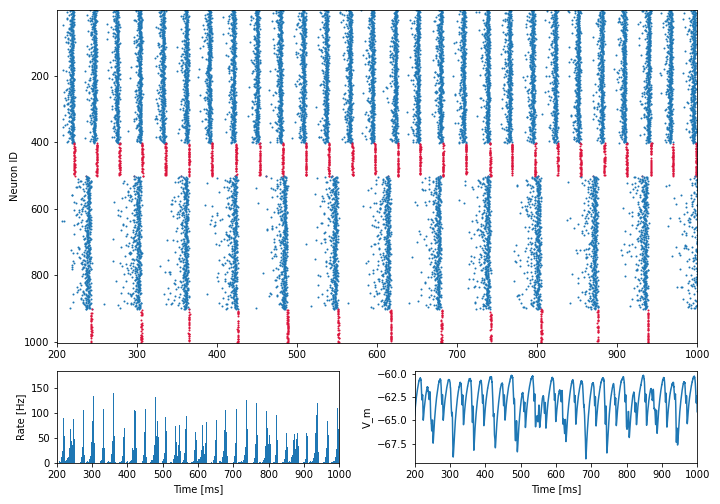
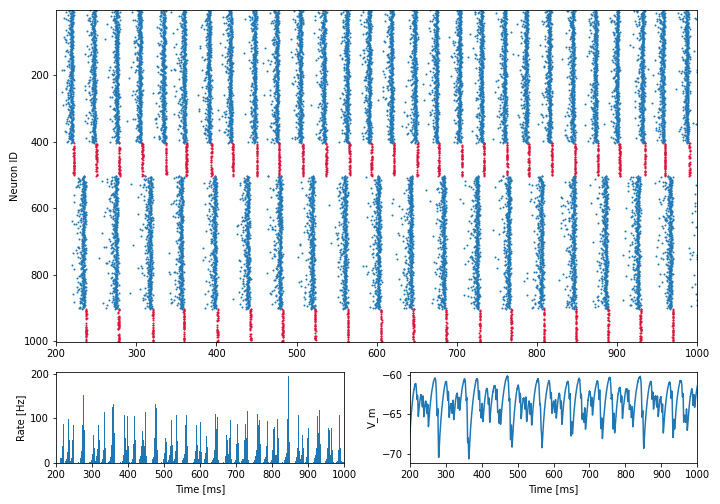
update

Changed region(s): [[0.0, 0.0, 0.9778, 0.9821], [0.9472, 0.6845, 1.0, 0.7143]]

diff --git a/simulation/setup.py b/simulation/setup.py
@@ -16,9 +16,9 @@ def setup():
     ## Recording and simulation parameters
     params = {
         'rec_start'  :    200.,                                                # start point for data recording
-        'rec_stop'   :   1000.,                                                # end points for data recording
+        'rec_stop'   :   4000.,                                                # end points for data recording
         'record_to'  : 'memory',
-        'sim_time'   :   1000.,                                                # Time the network is simulated in ms
+        'sim_time'   :   4000.,                                                # Time the network is simulated in ms
         'calc_lfp'   :   False,                                                # Flag to use LFP approximation procedure
         'verbose'    :    True,                                                # Flag for verbose function output
         'K_scale'    :      1.,                                                # Scaling factor for connections
@@ -46,7 +46,7 @@ def setup():
                             'tau_m'      :  20.0
                         },
                          {
-                            'tau_syn_ex' :   1.0,
+                            'tau_syn_ex' :   1.1,
                             'tau_syn_in' :   0.5,
                             'tau_m'      :  13.0
                         },

diff --git a/simulation/functions.py b/simulation/functions.py
@@ -721,17 +721,15 @@ def get_mean_spike_rate(times, params):
     times = times[times >= params['transient']]
     return times.size /  (params['sim_time'] - params['transient']) * 1000
 
-def compute_plv(spikes_1, spikes_2, resolution, t_sim, bin_size):
+def compute_plv(spikes_1, spikes_2, resolution, t_sim, bin_size, transient):
     # Phase using the Hilbert Transform
     Fn = 1000 / resolution  # sampling frequency
     Fbp = [15, 60]  # bandpass filter
 
     # Create spike histograms with the specified bin size
-    hist1, _ = np.histogram(spikes_1, bins=np.arange(0, t_sim, bin_size))
-    hist2, _ = np.histogram(spikes_2, bins=np.arange(0, t_sim, bin_size))
+    hist1, _ = np.histogram(spikes_1-200, bins=np.arange(0, t_sim, bin_size))
+    hist2, _ = np.histogram(spikes_2-200, bins=np.arange(0, t_sim, bin_size))
 
-    plt.plot(hist1)
-    plt.plot(hist2)
 
     # Apply bandpass filter and Hilbert transform to obtain analytic signals
     B, A = butter(4, np.array([np.min(Fbp) / Fn, np.max(Fbp) / Fn]), btype='bandpass')
@@ -740,6 +738,9 @@ def compute_plv(spikes_1, spikes_2, resolution, t_sim, bin_size):
 
     signal2 = filtfilt(B, A, hist2)
     signal2 = hilbert(signal2)
+
+    plt.plot(signal1)
+    plt.plot(signal2)
 
     # Calculate the phases of the analytic signals
     phase1 = np.angle(signal1)

diff --git a/simulation/run.py b/simulation/run.py
@@ -14,7 +14,7 @@ from setup import setup
 setup()
 
 ###############################################################################
-## Load config created by setup().
+## Load config created by setup()
 ## It is done this way for optimization procedures that change parameter values
 with open("params", 'rb') as f:
    params = pickle.load( f)
@@ -419,7 +419,7 @@ if rank == 0:
     spk_upper = np.sort(np.concatenate(net1_spike_data[0]))
     spk_lower = np.sort(np.concatenate(net1_spike_data[2]))
     
-    plv = compute_plv(spk_upper, spk_lower, params['resolution'], (params['rec_stop']-params['rec_start']), bin_size=3)
+    plv = compute_plv(spk_upper, spk_lower, params['resolution'], (params['rec_stop']-params['rec_start']), bin_size=3, transient=params['rec_start'])
     print("Phase-Locking Value (PLV):", plv)
 
     results['PLV']         = plv

diff --git a/simulation/opt_ei_k.py b/simulation/opt_ei_k.py
@@ -147,8 +147,8 @@ def plot_heatmap(tau_m, tau_syn_ex, data, title, round_to=0):
     # Remove minor ticks
     ax.tick_params(which='minor', bottom=False, left=False)
     
-    plt.xlabel(r"$\tau_{m}$", fontsize=18)
-    plt.ylabel(r"$\tau_{syn-ex}$", fontsize=18)
+    plt.xlabel(r"E/I Ratio", fontsize=18)
+    plt.ylabel("Interlaminar connections", fontsize=18)
     
     plt.colorbar(heatmap)
     
